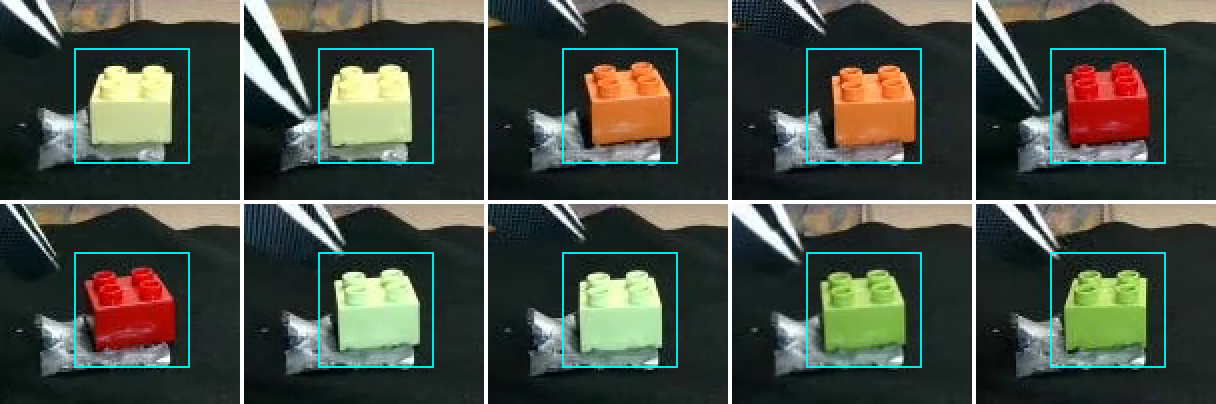
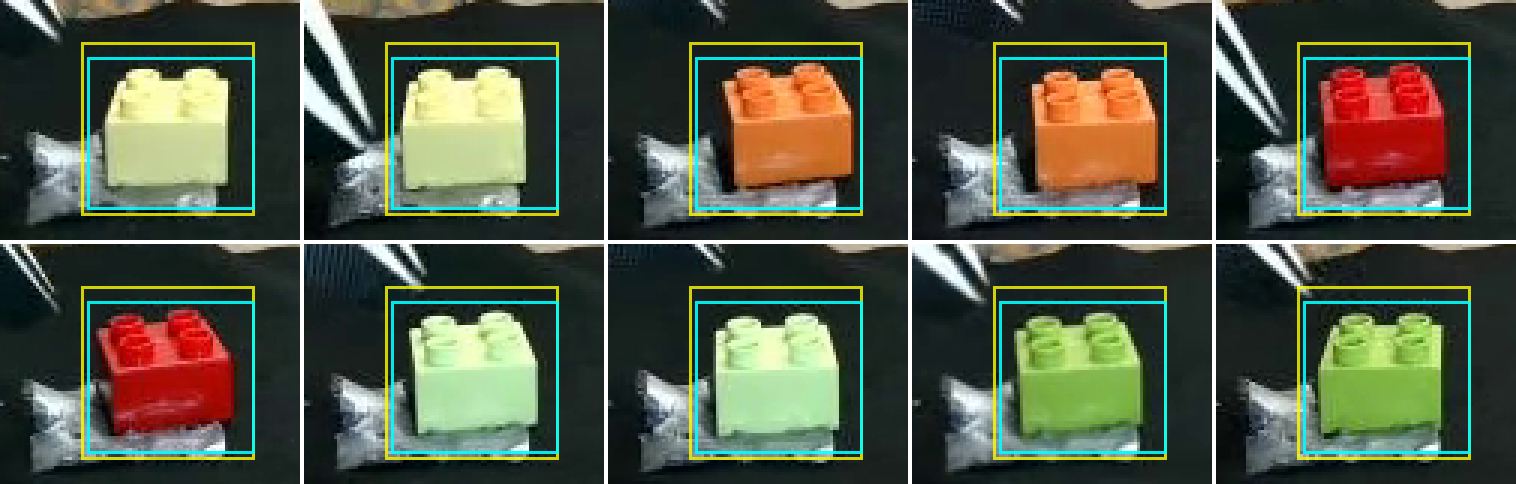
feat(algorithm): tighter shared inspection crop, measured on all 10 episodes
INSPECTION_CROP = (60, 130, 54, 49) now lives in reset_pose_trigger.py
and is the extractor's default, so training and live photos use the
same box. Measured by colour: blocks span x 62-111, y 132-176 across the
10 90_degree_turn photos, leaving 1-2 px per block; the claw tips reach
x ~53, about 7 px outside the crop. Drops most of the stand.

diff --git a/algorithm/extract_reset_frames.py b/algorithm/extract_reset_frames.py
@@ -4,8 +4,8 @@ Pull the inspection photos out of recorded episodes, using the same ResetPoseTri
 robot will run live.
 
 For each episode it replays observation.state frame by frame through the trigger, and on
-every frame the trigger fires it saves that frame from the chosen camera (plus an optional
-fixed crop around the block).
+every frame the trigger fires it saves that frame from the chosen camera, plus a crop to
+INSPECTION_CROP (from reset_pose_trigger.py, the same box the live loop uses).
 
 Step 1 - find the reset pose X (median of each episode's first frame, which is the arm
 sitting at reset before it moves):
@@ -16,10 +16,9 @@ sitting at reset before it moves):
 
 Step 2 - extract the photos:
 
-    python algorithm/extract_reset_frames.py <dataset_dir> --out inspection_frames \
-        --crop 58 125 56 56
+    python algorithm/extract_reset_frames.py <dataset_dir> --out inspection_frames
 
-Output: <out>/full/epXXX_photoN.png, <out>/crop/epXXX_photoN.png (if --crop), and
+Output: <out>/full/epXXX_photoN.png, <out>/crop/epXXX_photoN.png, and
 <out>/photos.csv listing episode, photo number, frame index and timestamp for each photo.
 Recorded episodes hold one rotation each (grasp, rotate, release, back to reset), so each
 gives one photo: the block after that episode's rotation.
@@ -48,6 +47,7 @@ from reset_pose_trigger import (
     CHECKED_JOINTS,
     EXIT_MARGIN,
     HOLD_FRAMES,
+    INSPECTION_CROP,
     TOLERANCE,
     ResetPoseTrigger,
     load_reset_pose,
@@ -66,7 +66,8 @@ def parse_args():
     parser.add_argument("--out", type=Path, default=Path("inspection_frames"), help="output folder")
     parser.add_argument("--camera", default="side_view", help="camera name, matched against the video feature names")
     parser.add_argument("--episodes", type=int, nargs="*", help="episode indices to process (default: all)")
-    parser.add_argument("--crop", type=int, nargs=4, metavar=("X", "Y", "W", "H"), help="fixed crop box in pixels")
+    parser.add_argument("--crop", type=int, nargs=4, metavar=("X", "Y", "W", "H"), default=list(INSPECTION_CROP),
+                        help=f"crop box in pixels (default: INSPECTION_CROP = {INSPECTION_CROP})")
     parser.add_argument("--expected-photos", type=int, default=1, help="warn when an episode gives a different count")
     parser.add_argument("--tolerance", type=float, default=TOLERANCE)
     parser.add_argument("--exit-margin", type=float, default=EXIT_MARGIN)

diff --git a/algorithm/reset_pose_trigger.py b/algorithm/reset_pose_trigger.py
@@ -39,6 +39,13 @@ EXIT_MARGIN = 5.0      # must go beyond TOLERANCE + EXIT_MARGIN to re-arm
 HOLD_FRAMES = 5        # consecutive in-pose frames needed (5 frames = 0.17 s at 30 fps)
 CHECKED_JOINTS = ["shoulder_pan", "shoulder_lift", "elbow_flex", "wrist_flex"]
 
+# The photo is cropped to this box (x, y, width, height in side_view pixels) both when
+# building Anomalib training images and live, so the two always match. Measured on the 10
+# 90_degree_turn photos: the blocks span x 62-111, y 132-176, so this leaves 1-2 px around
+# every block, and the claw tips (which reach x ~53 at the reset pose) stay ~7 px outside.
+# Re-measure if the side camera or the block's marked spot moves.
+INSPECTION_CROP = (60, 130, 54, 49)
+
 
 def short_joint_name(name):
     # "shoulder_pan.pos" -> "shoulder_pan"

diff --git a/algorithm/README.md b/algorithm/README.md
@@ -5,8 +5,9 @@ releasing the block. Each recorded episode is one rotation (grasp, rotate, relea
 reset), so each episode gives one photo of the block's newly exposed face. Run live through
 the full routine, it gives one photo per rotation.
 
-The claw is in the side camera's view at X, so photos must use the tight crop below. See
-[Checked on real episodes](#checked-on-real-episodes).
+The claw is in the side camera's view at X, so every photo is cropped to `INSPECTION_CROP`
+(x 60, y 130, 54 × 49 px), defined once in `reset_pose_trigger.py`. Training and live photos
+use that same box. See [Checked on real episodes](#checked-on-real-episodes).
 
 The same `ResetPoseTrigger` runs offline on recorded episodes (to build training crops)
 and live on the robot, so training and runtime photos are chosen by the same rule.
@@ -35,7 +36,7 @@ Each frame, with `d` = the largest |joint − X| over the checked joints:
 | File | What it does |
 |---|---|
 | `reset_pose_trigger.py` | The trigger. Plain Python, no dependencies. |
-| `extract_reset_frames.py` | Runs the trigger over recorded episodes and saves the photo frames plus an optional fixed crop. Reads the team's export layout (`datasets/90_degree_turn`) and raw LeRobot v2.x/v3.x. Needs pandas, pyarrow and the `ffmpeg` command. |
+| `extract_reset_frames.py` | Runs the trigger over recorded episodes and saves each photo frame, full and cropped to `INSPECTION_CROP`. Reads the team's export layout (`datasets/90_degree_turn`) and raw LeRobot v2.x/v3.x. Needs pandas, pyarrow and the `ffmpeg` command. |
 | `test_reset_pose_trigger.py` | 11 tests on synthetic joint traces (near-miss, jitter, retries, quick pass-through, ...). |
 | `reset_pose.json` | X itself, estimated from the 10 `90_degree_turn` episodes. Re-create it if the reset mark moves. |
 | `episode_check/` | Frames from the real episodes, used to check the trigger and the crop. |
@@ -47,8 +48,8 @@ Each frame, with `d` = the largest |joint − X| over the checked joints:
 #    printed per-joint range; a large range means episodes didn't start at the same pose.
 python algorithm/extract_reset_frames.py datasets/90_degree_turn --estimate-reset-pose
 
-# 2. Extract photos (crop box is x y w h in side_view pixels around the centre spot)
-python algorithm/extract_reset_frames.py datasets/90_degree_turn --out inspection_frames --crop 58 125 56 56
+# 2. Extract photos (cropped to INSPECTION_CROP unless you pass --crop X Y W H)
+python algorithm/extract_reset_frames.py datasets/90_degree_turn --out inspection_frames
 
 # Tests
 python -m unittest discover -s algorithm -v
@@ -60,13 +61,15 @@ for checking by eye.
 Live, in the control loop:
 
 ```python
-from reset_pose_trigger import ResetPoseTrigger, load_reset_pose
+from reset_pose_trigger import INSPECTION_CROP, ResetPoseTrigger, load_reset_pose
 
 trigger = ResetPoseTrigger(load_reset_pose("algorithm/reset_pose.json"))
+x, y, w, h = INSPECTION_CROP
 while running:
     joint_state = read_follower_joints()   # dict: "shoulder_pan" -> position, same units as recording
     if trigger.update(joint_state):
-        photo = side_camera.read()         # arm is parked at X; crop to 58 125 56 56
+        frame = side_camera.read()         # 320x240 image as a numpy array (rows, columns, colour)
+        photo = frame[y:y + h, x:x + w]    # same box as the training crops
 ```
 
 ## Checked on real episodes
@@ -91,12 +94,18 @@ H.264 320×240 @ 30 fps). Images are in `episode_check/`.
 - **The claw is in the camera's view at X.** Its tips sit just left of the block
   (`key_frames.jpg`, first and last tiles). The arm is only fully out of view while it is
   raised on the way back, about frames 930–970 of episode 00 (`return_frames_870_1060.jpg`).
-- **The tight crop `58 125 56 56` contains the whole block and no claw in all 10 photos**
-  (`all_episodes_crops.png`). The margins are thin, though (`all_episodes_crop_box.png`):
-  in episodes 01 and 04 the claw tips land right on the crop's left edge, and the block's
-  spot drifts a few pixels between episodes. Moving the side camera slightly, or re-marking
-  the reset pose so the claw parks a little further left, would add margin. Re-measure the
-  crop after either change.
+- **`INSPECTION_CROP` (x 60, y 130, 54 × 49) holds the whole block and no claw in all 10
+  photos** (`all_episodes_crops.png`). It was set from measurements: each block's outline was
+  found by colour, and across the 10 photos the blocks span x 62–111, y 132–176. That leaves
+  1–2 px around every block. On a 10 px grid, the claw tips reach x ≈ 52–53 in the closest
+  episodes (01 and 04), about 7 px outside the crop. `all_episodes_crop_box.png` shows the
+  new box (cyan) and the earlier, looser box (yellow).
+- **Keep the side camera and the reset mark where they are.** The arm-control model is
+  trained on this camera view and this reset pose, and the crop is measured for them. If
+  either moves, re-measure the crop (and expect to retrain the policy).
+- **Not done: centring the crop on each block by colour.** That would remove the few pixels
+  of drift, but it depends on the block's colour, and wrong colours are one of the defects
+  being detected. The fixed box treats every block the same.
 
 Also tested on synthetic data: the trigger logic (unit tests), plus a fake LeRobot v2.1 and
 v3.0 dataset where every one of 60 extracted images was confirmed to be the exact intended
